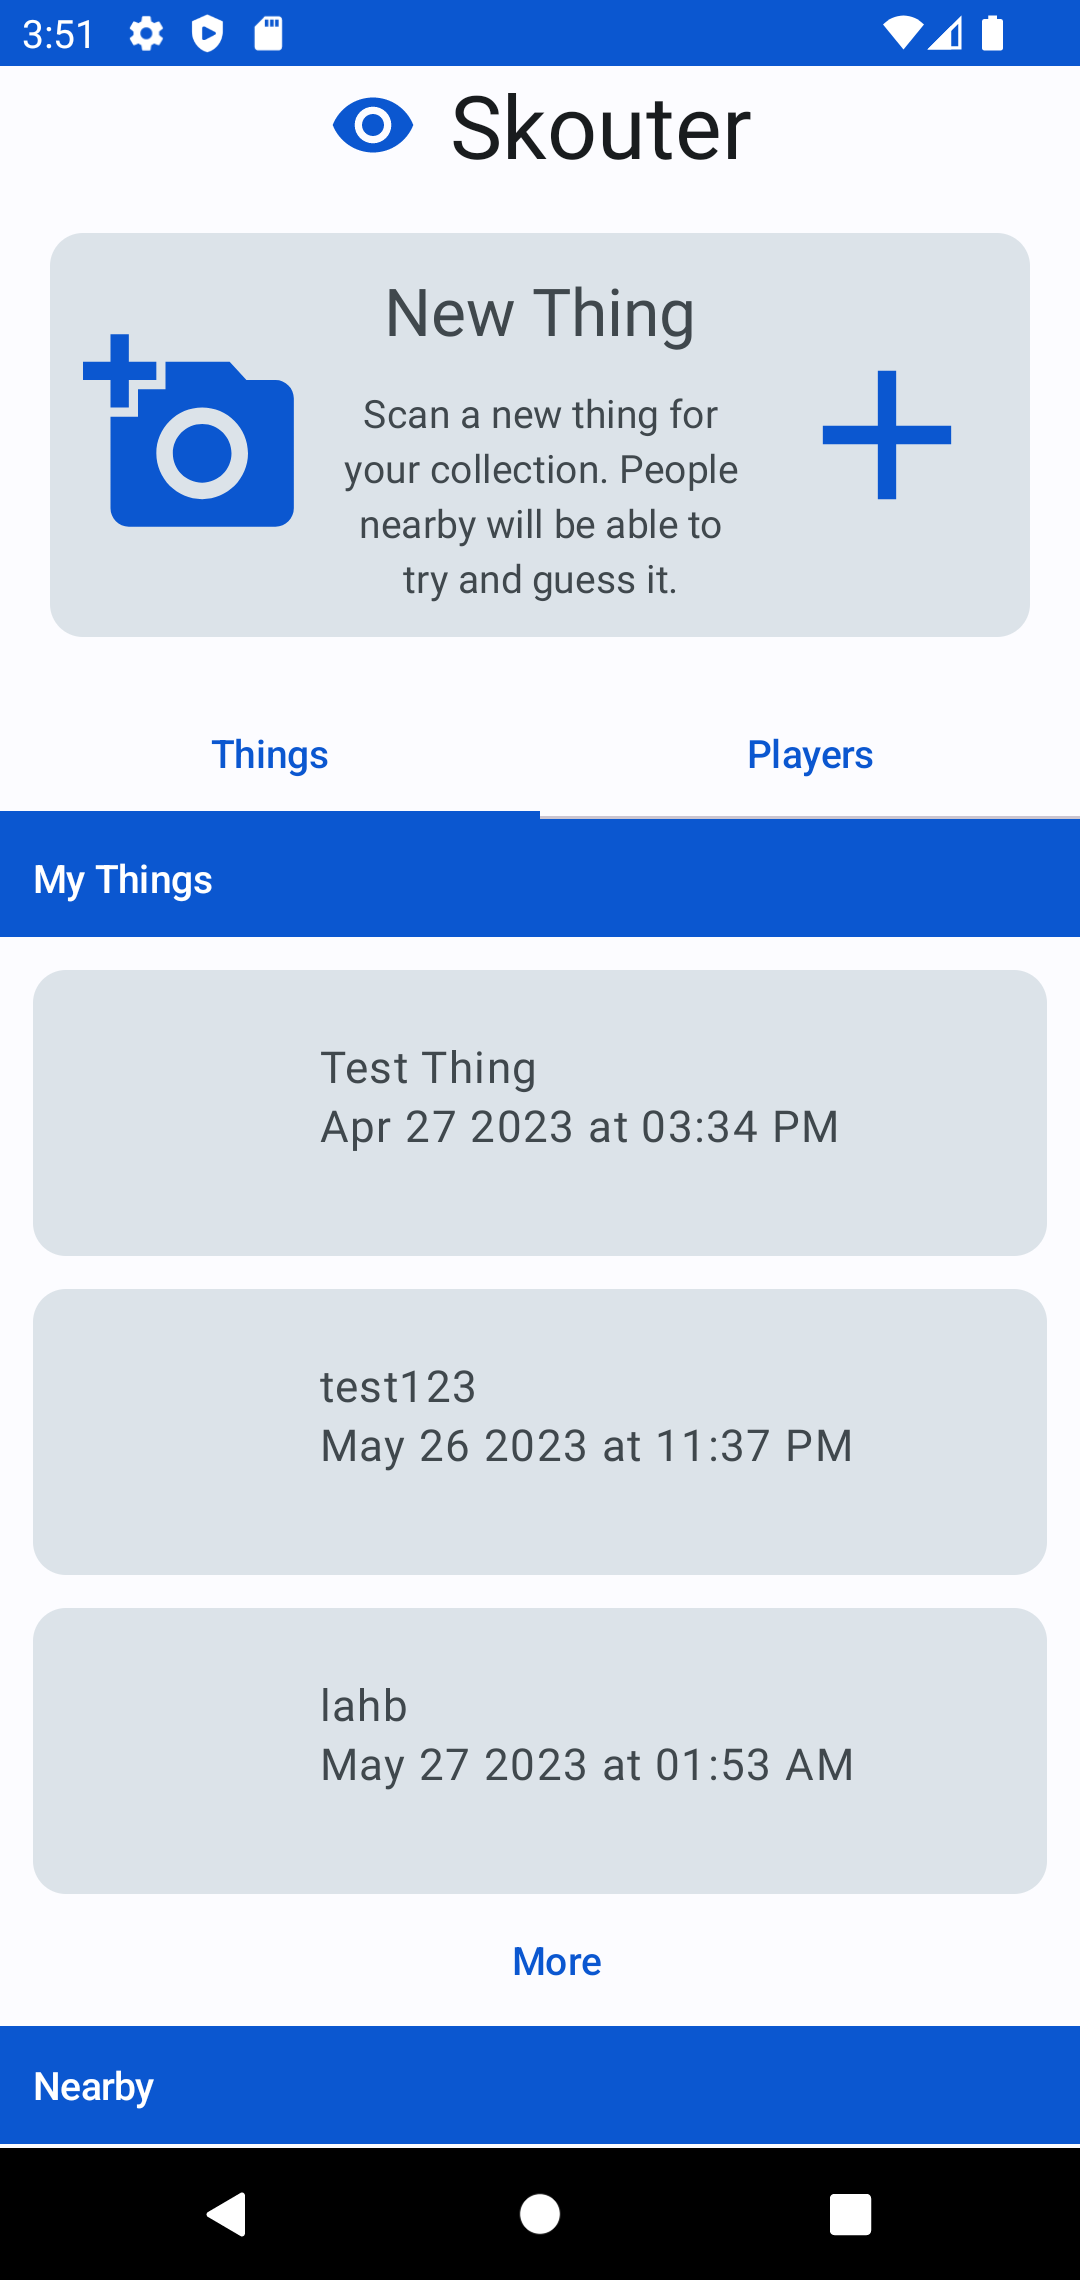
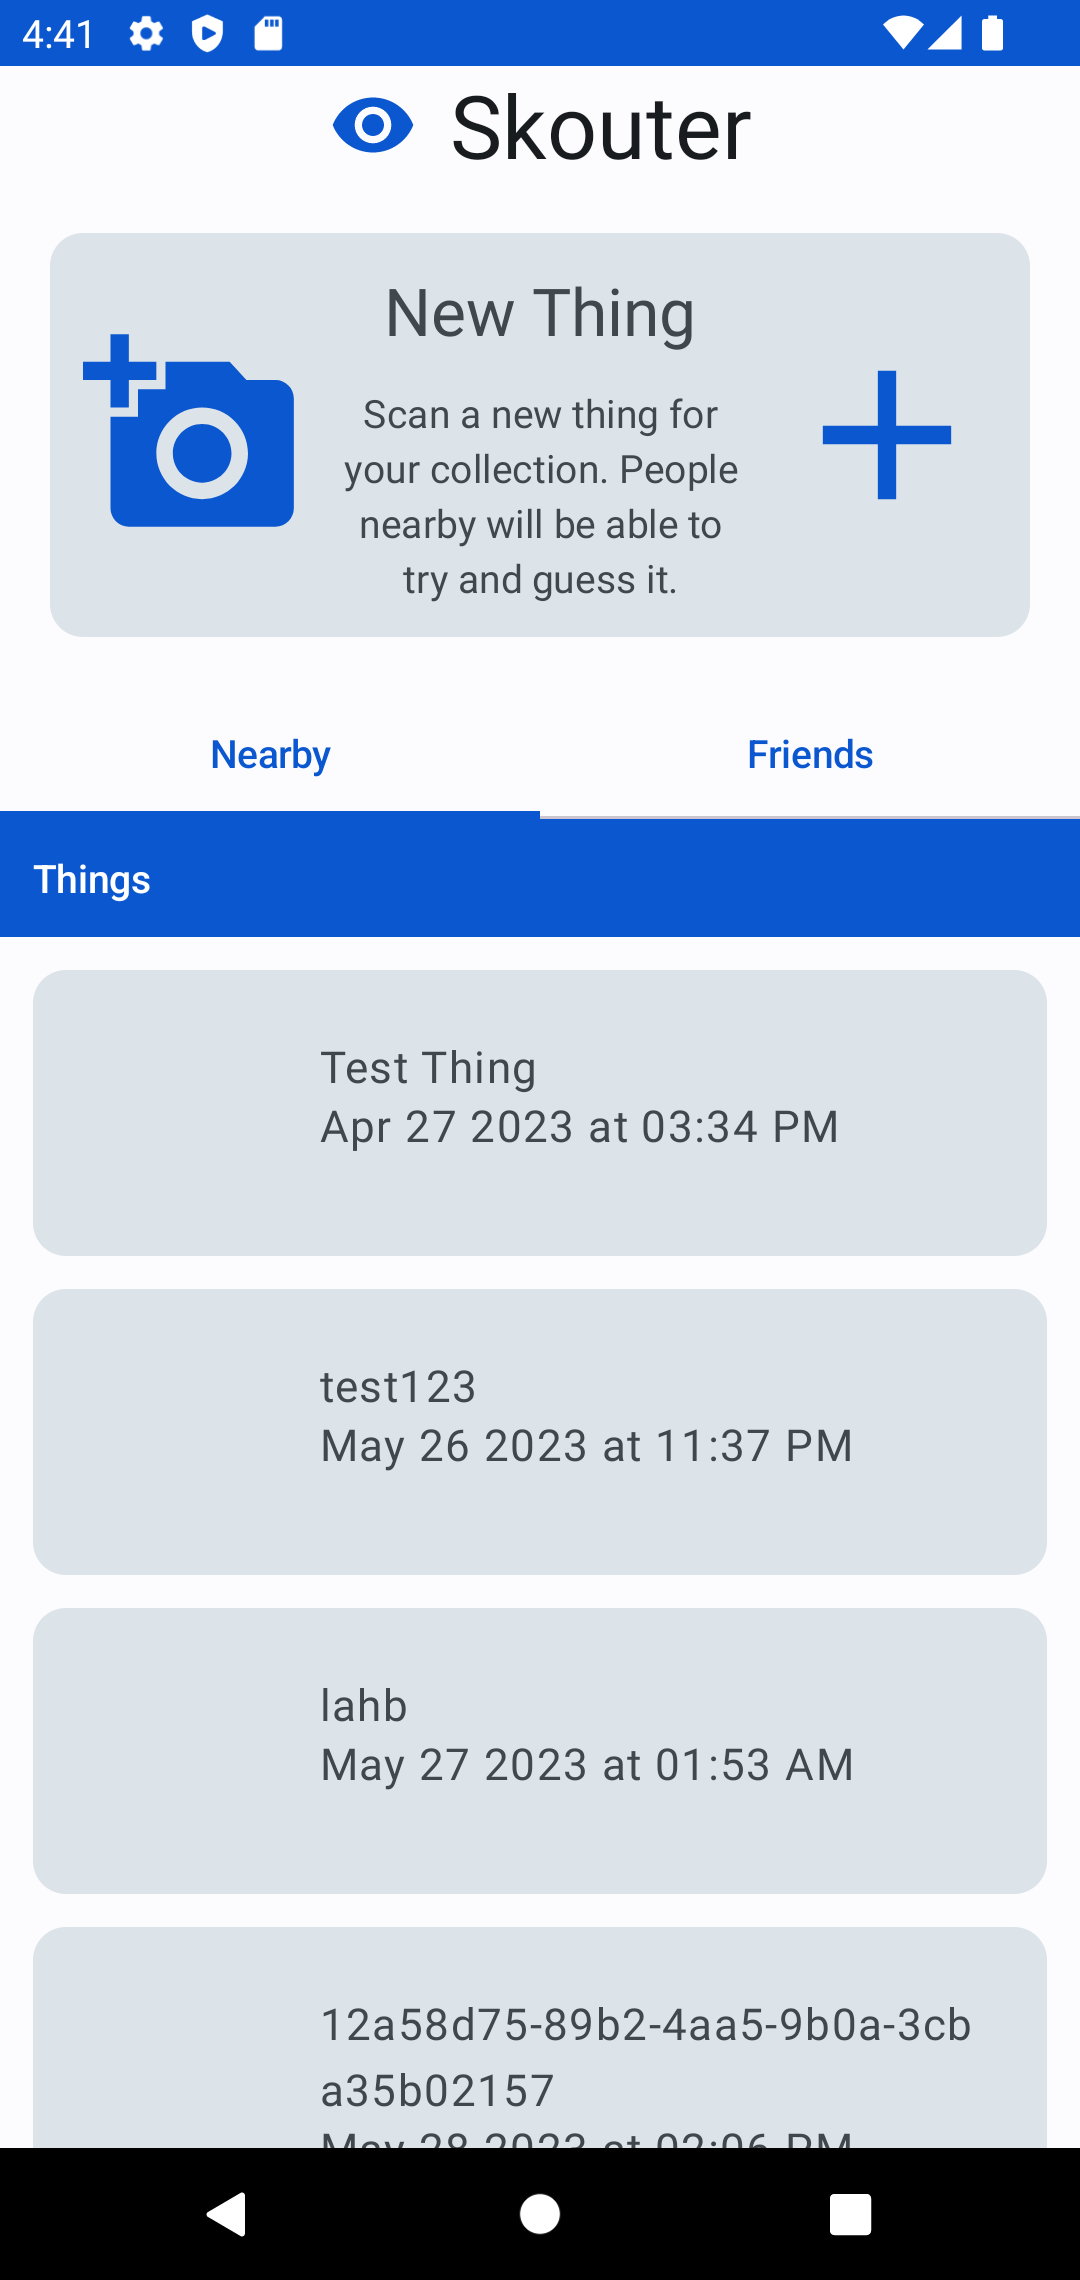
fix(dashboard): change tabs to 'nearby' and 'friends'
- dont want to spend too much time just want to get a decent enough
  dashboard to show potential to impress some UX people who might want to redesign

diff --git a/shared/src/commonMain/kotlin/com/micrantha/skouter/ui/dashboard/components/DashboardTabContent.kt b/shared/src/commonMain/kotlin/com/micrantha/skouter/ui/dashboard/components/DashboardTabContent.kt
@@ -1,0 +1,40 @@
+package com.micrantha.skouter.ui.dashboard.components
+
+import androidx.compose.foundation.ExperimentalFoundationApi
+import androidx.compose.foundation.layout.fillMaxSize
+import androidx.compose.foundation.lazy.LazyColumn
+import androidx.compose.foundation.lazy.items
+import androidx.compose.runtime.Composable
+import androidx.compose.ui.Modifier
+import com.micrantha.bluebell.domain.i18n.LocalizedString
+import com.micrantha.bluebell.domain.i18n.stringResource
+
+@OptIn(ExperimentalFoundationApi::class)
+@Composable
+fun <T> DashboardTabContent(
+    data: List<T>,
+    headerStr: LocalizedString? = null,
+    onEmpty: @Composable () -> Unit = {},
+    hasMore: Boolean,
+    onHasMore: () -> Unit = {},
+    onItem: @Composable (T) -> Unit
+) {
+    when {
+        data.isEmpty() -> onEmpty()
+        else -> LazyColumn(modifier = Modifier.fillMaxSize()) {
+            headerStr?.let { str ->
+                stickyHeader {
+                    ListHeader(label = stringResource(str))
+                }
+            }
+            items(data) { thing ->
+                onItem(thing)
+            }
+            if (hasMore) {
+                item {
+                    HasMoreFooter(onClick = onHasMore)
+                }
+            }
+        }
+    }
+}

diff --git a/shared/src/commonMain/kotlin/com/micrantha/skouter/ui/dashboard/DashboardContract.kt b/shared/src/commonMain/kotlin/com/micrantha/skouter/ui/dashboard/DashboardContract.kt
@@ -2,7 +2,6 @@ package com.micrantha.skouter.ui.dashboard
 
 import com.micrantha.bluebell.domain.arch.Action
 import com.micrantha.bluebell.domain.model.UiResult
-import com.micrantha.skouter.domain.model.GameList
 import com.micrantha.skouter.domain.model.Location
 import com.micrantha.skouter.domain.model.PlayerList
 import com.micrantha.skouter.domain.model.ThingList
@@ -12,11 +11,9 @@ const val MaxItemCount = 3
 data class DashboardState(
     val playerID: String? = null,
     val location: Location? = null,
-    val games: GameList? = null,
-    val players: PlayerList? = null,
-    val nearbyPlayers: PlayerList? = null,
+    val friends: PlayerList? = null,
     val things: ThingList? = null,
-    val nearbyThings: ThingList? = null,
+    val players: PlayerList? = null,
     val status: UiResult<Unit> = UiResult.Default
 )
 
@@ -24,19 +21,17 @@ data class DashboardUiState(
     val status: UiResult<Data>,
 ) {
     data class Data(
-        val games: GameList,
-        val players: PlayerList,
-        val things: ThingsTab
+        val nearby: Nearby,
+        val friends: TabContent<PlayerList>
     ) {
-        data class ThingsTab(
-            val owned: TabContent<ThingList>,
-            val nearby: TabContent<ThingList>,
-            val isEmpty: Boolean,
-        )
-
         data class TabContent<T>(
             val data: T,
             val hasMore: Boolean
+        )
+
+        data class Nearby(
+            val players: TabContent<PlayerList>,
+            val things: TabContent<ThingList>
         )
     }
 }
@@ -46,12 +41,13 @@ sealed class DashboardAction : Action {
     object ScanNewThing : DashboardAction()
 
     object HasMoreThings : DashboardAction()
-    object HasMoreNearby : DashboardAction()
+
+    object HasMorePlayers : DashboardAction()
 
     object Load : DashboardAction()
 
     object LoadError : DashboardAction()
 
-    data class Loaded(val things: ThingList, val games: GameList, val players: PlayerList) :
+    data class Loaded(val things: ThingList, val friends: PlayerList, val players: PlayerList) :
         DashboardAction()
 }

diff --git a/shared/src/commonMain/kotlin/com/micrantha/skouter/ui/dashboard/DashboardEnvironment.kt b/shared/src/commonMain/kotlin/com/micrantha/skouter/ui/dashboard/DashboardEnvironment.kt
@@ -17,8 +17,8 @@ import com.micrantha.skouter.ui.dashboard.DashboardAction.LoadError
 import com.micrantha.skouter.ui.dashboard.DashboardAction.Loaded
 import com.micrantha.skouter.ui.dashboard.DashboardAction.ScanNewThing
 import com.micrantha.skouter.ui.dashboard.DashboardUiState.Data
+import com.micrantha.skouter.ui.dashboard.DashboardUiState.Data.Nearby
 import com.micrantha.skouter.ui.dashboard.DashboardUiState.Data.TabContent
-import com.micrantha.skouter.ui.dashboard.DashboardUiState.Data.ThingsTab
 import com.micrantha.skouter.ui.dashboard.usecase.DashboardLoadUseCase
 import com.micrantha.skouter.ui.game.components.GameAction
 import com.micrantha.skouter.ui.game.details.GameDetailScreenArg
@@ -34,18 +34,19 @@ class DashboardEnvironment(
     override fun map(state: DashboardState) = DashboardUiState(
         status = state.status.map {
             Data(
-                state.games ?: emptyList(),
-                state.players ?: emptyList(),
-                ThingsTab(
-                    TabContent(
-                        state.things?.take(MaxItemCount) ?: emptyList(),
-                        hasMore = state.things?.let { it.size > MaxItemCount } ?: false
+                nearby = Nearby(
+                    players = TabContent(
+                        data = state.players ?: emptyList(),
+                        hasMore = false
                     ),
-                    TabContent(
-                        state.nearbyThings?.take(MaxItemCount) ?: emptyList(),
-                        hasMore = state.nearbyThings?.let { it.size > MaxItemCount } ?: false
+                    things = TabContent(
+                        state.things ?: emptyList(),
+                        hasMore = false
                     ),
-                    state.things?.isNotEmpty() == false && state.nearbyThings?.isNotEmpty() == false
+                ),
+                friends = TabContent(
+                    data = state.friends ?: emptyList(),
+                    hasMore = false
                 )
             )
         }
@@ -55,9 +56,9 @@ class DashboardEnvironment(
         return when (action) {
             is Loaded -> state.copy(
                 status = Ready(),
-                games = action.games,
                 things = action.things,
-                players = action.players
+                players = action.players,
+                friends = action.friends
             )
             is LoadError -> state.copy(
                 status = context.i18n.failure(S.NetworkFailure)

diff --git a/shared/src/commonMain/kotlin/com/micrantha/skouter/ui/dashboard/components/FriendsTabContent.kt b/shared/src/commonMain/kotlin/com/micrantha/skouter/ui/dashboard/components/FriendsTabContent.kt
@@ -1,0 +1,26 @@
+package com.micrantha.skouter.ui.dashboard.components
+
+import androidx.compose.foundation.layout.fillMaxSize
+import androidx.compose.foundation.lazy.LazyColumn
+import androidx.compose.foundation.lazy.items
+import androidx.compose.runtime.Composable
+import androidx.compose.ui.Modifier
+import com.micrantha.bluebell.domain.arch.Dispatch
+import com.micrantha.bluebell.domain.i18n.stringResource
+import com.micrantha.bluebell.ui.components.status.EmptyContent
+import com.micrantha.skouter.domain.model.PlayerList
+import com.micrantha.skouter.ui.components.S
+import com.micrantha.skouter.ui.dashboard.DashboardUiState.Data.TabContent
+import com.micrantha.skouter.ui.player.components.PlayerListCard
+
+@Composable
+fun FriendsTabContent(tab: TabContent<PlayerList>, dispatch: Dispatch) {
+    when {
+        tab.data.isEmpty() -> EmptyContent(stringResource(S.NoPlayersFound))
+        else -> LazyColumn(modifier = Modifier.fillMaxSize()) {
+            items(tab.data) {
+                PlayerListCard(it)
+            }
+        }
+    }
+}

diff --git a/shared/src/commonMain/kotlin/com/micrantha/skouter/ui/dashboard/usecase/DashboardLoadUseCase.kt b/shared/src/commonMain/kotlin/com/micrantha/skouter/ui/dashboard/usecase/DashboardLoadUseCase.kt
@@ -1,7 +1,6 @@
 package com.micrantha.skouter.ui.dashboard.usecase
 
 import com.micrantha.skouter.data.account.model.CurrentSession
-import com.micrantha.skouter.domain.repository.GameRepository
 import com.micrantha.skouter.domain.repository.PlayerRepository
 import com.micrantha.skouter.domain.repository.ThingsRepository
 import com.micrantha.skouter.ui.dashboard.DashboardAction
@@ -14,7 +13,6 @@ import kotlinx.coroutines.flow.flow
 
 class DashboardLoadUseCase(
     private val thingsRepository: ThingsRepository,
-    private val gameRepository: GameRepository,
     private val playerRepository: PlayerRepository,
     private val currentSession: CurrentSession
 ) {
@@ -24,9 +22,10 @@ class DashboardLoadUseCase(
                 .onSuccess { emit(it) }
                 .onFailure { throw it }
         }
-        val gameFlow = flow {
-            gameRepository.games()
-                .onSuccess { emit(it) }.onFailure { throw it }
+        val friendFlow = flow {
+            playerRepository.players()
+                .onSuccess { emit(it) }
+                .onFailure { throw it }
         }
         val playerFlow = flow {
             playerRepository.players()
@@ -35,10 +34,10 @@ class DashboardLoadUseCase(
         }
         return combine(
             flow = thingFlow,
-            flow2 = gameFlow,
+            flow2 = friendFlow,
             flow3 = playerFlow
-        ) { things, games, players ->
-            Loaded(things, games, players)
+        ) { things, friends, players ->
+            Loaded(things, friends, players)
         }.catch {
             Napier.e("dashboard", it)
             throw it

diff --git a/shared/src/commonMain/kotlin/com/micrantha/skouter/ui/dashboard/DashboardScreen.kt b/shared/src/commonMain/kotlin/com/micrantha/skouter/ui/dashboard/DashboardScreen.kt
@@ -31,9 +31,9 @@ import com.micrantha.skouter.ui.Skouter
 import com.micrantha.skouter.ui.components.S
 import com.micrantha.skouter.ui.dashboard.DashboardAction.Load
 import com.micrantha.skouter.ui.dashboard.DashboardAction.ScanNewThing
+import com.micrantha.skouter.ui.dashboard.components.FriendsTabContent
+import com.micrantha.skouter.ui.dashboard.components.NearbyTabContent
 import com.micrantha.skouter.ui.dashboard.components.ScanNewThingCard
-import com.micrantha.skouter.ui.dashboard.components.ThingTabContent
-import com.micrantha.skouter.ui.player.components.PlayerListContent
 
 class DashboardScreen : Screen {
 
@@ -96,14 +96,12 @@ class DashboardScreen : Screen {
     @Composable
     fun ContentPager(data: DashboardUiState.Data, dispatch: Dispatch) {
         TabPager(
-            stringResource(S.Things),
-            //stringResource(S.Games),
-            stringResource(S.Players)
+            stringResource(S.Nearby),
+            stringResource(S.Friends)
         ) { page, _ ->
             when (page) {
-                0 -> ThingTabContent(data.things, dispatch)
-                //1 -> GameListContent(tabs.games, dispatch)
-                1 -> PlayerListContent(data.players, dispatch)
+                0 -> NearbyTabContent(data.nearby, dispatch)
+                1 -> FriendsTabContent(data.friends, dispatch)
             }
         }
     }

diff --git a/shared/src/commonMain/kotlin/com/micrantha/skouter/ui/components/Strings.kt b/shared/src/commonMain/kotlin/com/micrantha/skouter/ui/components/Strings.kt
@@ -43,5 +43,6 @@ enum class Strings(
     NoClues("no_clues"),
     MyThings("my_things"),
     Nearby("nearby"),
-    HasMore("has_more")
+    HasMore("has_more"),
+    Friends("friends")
 }